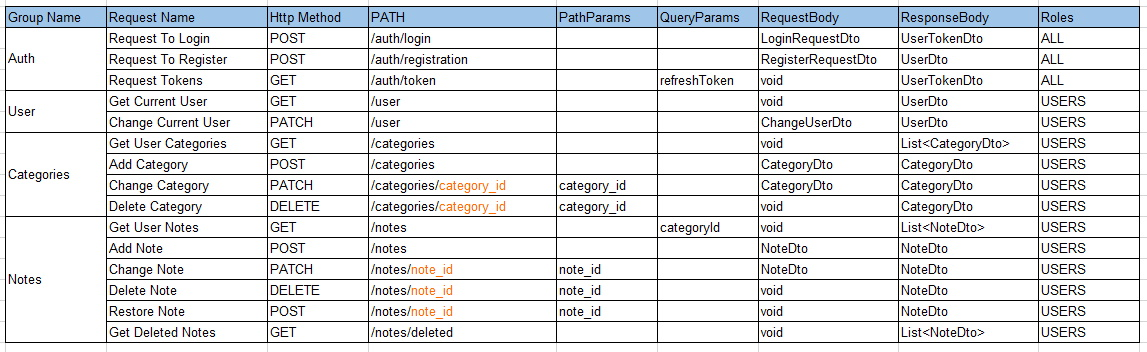
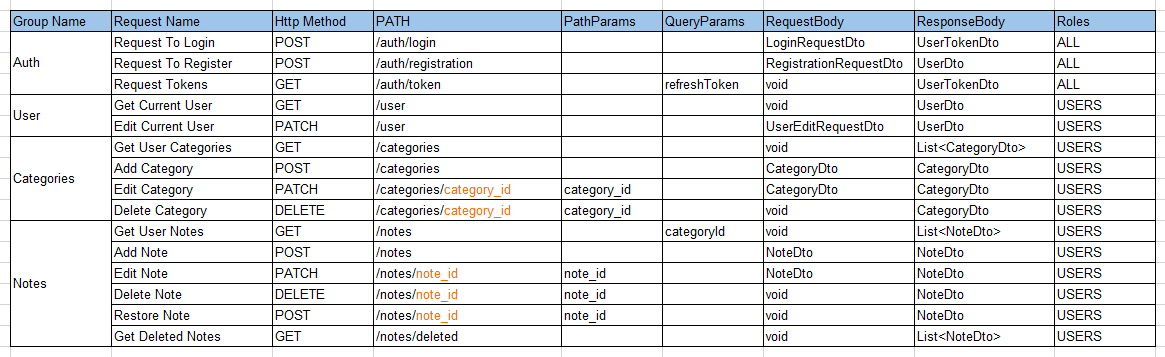
added controllers and services

diff --git a/src/main/java/com/andrbezr2016/mynotes/controllers/NoteController.java b/src/main/java/com/andrbezr2016/mynotes/controllers/NoteController.java
@@ -1,0 +1,48 @@
+package com.andrbezr2016.mynotes.controllers;
+
+import com.andrbezr2016.mynotes.dto.NoteDto;
+import com.andrbezr2016.mynotes.services.NoteService;
+import lombok.RequiredArgsConstructor;
+import org.springframework.web.bind.annotation.*;
+
+import java.util.List;
+
+import static com.andrbezr2016.mynotes.constants.ApiConstants.API_NOTES_PATH;
+
+@RequiredArgsConstructor
+@RestController
+@RequestMapping(API_NOTES_PATH)
+public class NoteController {
+
+    private final NoteService noteService;
+
+    @GetMapping
+    public List<NoteDto> getUserNotes(@RequestParam(required = false) String categoryId) {
+        return noteService.getUserNotes(categoryId);
+    }
+
+    @PostMapping
+    public NoteDto addNote(@RequestBody NoteDto noteDto) {
+        return noteService.addNote(noteDto);
+    }
+
+    @PatchMapping("/{noteId}")
+    public NoteDto editNote(@PathVariable Long noteId, @RequestBody NoteDto noteDto) {
+        return noteService.editNote(noteId, noteDto);
+    }
+
+    @DeleteMapping("/{noteId}")
+    public NoteDto deleteNote(@PathVariable Long noteId) {
+        return noteService.deleteNote(noteId);
+    }
+
+    @PostMapping("/{noteId}")
+    public NoteDto restoreNote(@PathVariable Long noteId) {
+        return noteService.restoreNote(noteId);
+    }
+
+    @GetMapping("/deleted")
+    public List<NoteDto> getDeletedUserNotes() {
+        return noteService.getDeletedUserNotes();
+    }
+}

diff --git a/src/main/java/com/andrbezr2016/mynotes/controllers/CategoryController.java b/src/main/java/com/andrbezr2016/mynotes/controllers/CategoryController.java
@@ -1,0 +1,38 @@
+package com.andrbezr2016.mynotes.controllers;
+
+import com.andrbezr2016.mynotes.dto.CategoryDto;
+import com.andrbezr2016.mynotes.services.CategoryService;
+import lombok.RequiredArgsConstructor;
+import org.springframework.web.bind.annotation.*;
+
+import java.util.List;
+
+import static com.andrbezr2016.mynotes.constants.ApiConstants.API_CATEGORIES_PATH;
+
+@RequiredArgsConstructor
+@RestController
+@RequestMapping(API_CATEGORIES_PATH)
+public class CategoryController {
+
+    private final CategoryService categoryService;
+
+    @GetMapping
+    public List<CategoryDto> getUserCategories() {
+        return categoryService.getUserCategories();
+    }
+
+    @PostMapping
+    public CategoryDto addCategory(@RequestBody CategoryDto categoryDto) {
+        return categoryService.addCategory(categoryDto);
+    }
+
+    @PatchMapping("/{categoryId}")
+    public CategoryDto editCategory(@PathVariable Long categoryId, @RequestBody CategoryDto categoryDto) {
+        return categoryService.editCategory(categoryId, categoryDto);
+    }
+
+    @DeleteMapping("/{categoryId}")
+    public CategoryDto deleteCategory(@PathVariable Long categoryId) {
+        return categoryService.deleteCategory(categoryId);
+    }
+}

diff --git a/src/main/java/com/andrbezr2016/mynotes/controllers/AuthController.java b/src/main/java/com/andrbezr2016/mynotes/controllers/AuthController.java
@@ -1,0 +1,34 @@
+package com.andrbezr2016.mynotes.controllers;
+
+import com.andrbezr2016.mynotes.dto.LoginRequestDto;
+import com.andrbezr2016.mynotes.dto.RegistrationRequestDto;
+import com.andrbezr2016.mynotes.dto.UserDto;
+import com.andrbezr2016.mynotes.dto.UserTokenDto;
+import com.andrbezr2016.mynotes.services.AuthService;
+import lombok.RequiredArgsConstructor;
+import org.springframework.web.bind.annotation.*;
+
+import static com.andrbezr2016.mynotes.constants.ApiConstants.API_AUTH_PATH;
+
+@RequiredArgsConstructor
+@RestController
+@RequestMapping(API_AUTH_PATH)
+public class AuthController {
+
+    private final AuthService authService;
+
+    @PostMapping("/login")
+    public UserTokenDto login(@RequestBody LoginRequestDto loginRequestDto) {
+        return authService.login(loginRequestDto);
+    }
+
+    @PostMapping("/registration")
+    public UserDto register(@RequestBody RegistrationRequestDto registrationRequestDto) {
+        return authService.register(registrationRequestDto);
+    }
+
+    @GetMapping("/token")
+    public UserTokenDto requestToken(@RequestParam String refreshToken) {
+        return authService.requestToken(refreshToken);
+    }
+}

diff --git a/src/main/java/com/andrbezr2016/mynotes/controllers/UserController.java b/src/main/java/com/andrbezr2016/mynotes/controllers/UserController.java
@@ -1,0 +1,27 @@
+package com.andrbezr2016.mynotes.controllers;
+
+import com.andrbezr2016.mynotes.dto.UserDto;
+import com.andrbezr2016.mynotes.dto.UserEditRequestDto;
+import com.andrbezr2016.mynotes.services.UserService;
+import lombok.RequiredArgsConstructor;
+import org.springframework.web.bind.annotation.*;
+
+import static com.andrbezr2016.mynotes.constants.ApiConstants.API_USER_PATH;
+
+@RequiredArgsConstructor
+@RestController
+@RequestMapping(API_USER_PATH)
+public class UserController {
+
+    private final UserService userService;
+
+    @GetMapping
+    public UserDto getCurrentUser() {
+        return userService.getCurrentUser();
+    }
+
+    @PatchMapping
+    public UserDto editCurrentUser(@RequestBody UserEditRequestDto userEditRequestDto) {
+        return userService.editCurrentUser(userEditRequestDto);
+    }
+}

diff --git a/src/main/java/com/andrbezr2016/mynotes/services/NoteService.java b/src/main/java/com/andrbezr2016/mynotes/services/NoteService.java
@@ -1,0 +1,35 @@
+package com.andrbezr2016.mynotes.services;
+
+import com.andrbezr2016.mynotes.dto.NoteDto;
+import org.springframework.stereotype.Service;
+
+import java.util.ArrayList;
+import java.util.List;
+
+@Service
+public class NoteService {
+
+    public List<NoteDto> getUserNotes(String categoryId) {
+        return new ArrayList<>();
+    }
+
+    public NoteDto addNote(NoteDto noteDto) {
+        return null;
+    }
+
+    public NoteDto editNote(Long noteId, NoteDto noteDto) {
+        return null;
+    }
+
+    public NoteDto deleteNote(Long noteId) {
+        return null;
+    }
+
+    public NoteDto restoreNote(Long noteId) {
+        return null;
+    }
+
+    public List<NoteDto> getDeletedUserNotes() {
+        return new ArrayList<>();
+    }
+}

diff --git a/src/main/java/com/andrbezr2016/mynotes/services/AuthService.java b/src/main/java/com/andrbezr2016/mynotes/services/AuthService.java
@@ -1,0 +1,23 @@
+package com.andrbezr2016.mynotes.services;
+
+import com.andrbezr2016.mynotes.dto.LoginRequestDto;
+import com.andrbezr2016.mynotes.dto.RegistrationRequestDto;
+import com.andrbezr2016.mynotes.dto.UserDto;
+import com.andrbezr2016.mynotes.dto.UserTokenDto;
+import org.springframework.stereotype.Service;
+
+@Service
+public class AuthService {
+
+    public UserTokenDto login(LoginRequestDto loginRequestDto) {
+        return null;
+    }
+
+    public UserDto register(RegistrationRequestDto registrationRequestDto) {
+        return null;
+    }
+
+    public UserTokenDto requestToken(String refreshToken) {
+        return null;
+    }
+}

diff --git a/src/main/java/com/andrbezr2016/mynotes/services/CategoryService.java b/src/main/java/com/andrbezr2016/mynotes/services/CategoryService.java
@@ -1,0 +1,27 @@
+package com.andrbezr2016.mynotes.services;
+
+import com.andrbezr2016.mynotes.dto.CategoryDto;
+import org.springframework.stereotype.Service;
+
+import java.util.ArrayList;
+import java.util.List;
+
+@Service
+public class CategoryService {
+
+    public List<CategoryDto> getUserCategories() {
+        return new ArrayList<>();
+    }
+
+    public CategoryDto addCategory(CategoryDto categoryDto) {
+        return null;
+    }
+
+    public CategoryDto editCategory(Long categoryId, CategoryDto categoryDto) {
+        return null;
+    }
+
+    public CategoryDto deleteCategory(Long categoryId) {
+        return null;
+    }
+}

diff --git a/src/main/java/com/andrbezr2016/mynotes/services/UserService.java b/src/main/java/com/andrbezr2016/mynotes/services/UserService.java
@@ -1,0 +1,17 @@
+package com.andrbezr2016.mynotes.services;
+
+import com.andrbezr2016.mynotes.dto.UserDto;
+import com.andrbezr2016.mynotes.dto.UserEditRequestDto;
+import org.springframework.stereotype.Service;
+
+@Service
+public class UserService {
+
+    public UserDto getCurrentUser() {
+        return null;
+    }
+
+    public UserDto editCurrentUser(UserEditRequestDto user) {
+        return null;
+    }
+}

diff --git a/src/main/java/com/andrbezr2016/mynotes/constants/ApiConstants.java b/src/main/java/com/andrbezr2016/mynotes/constants/ApiConstants.java
@@ -1,0 +1,12 @@
+package com.andrbezr2016.mynotes.constants;
+
+public final class ApiConstants {
+
+    public static final String API_AUTH_PATH = "/auth";
+    public static final String API_USER_PATH = "/user";
+    public static final String API_CATEGORIES_PATH = "/categories";
+    public static final String API_NOTES_PATH = "/notes";
+
+    private ApiConstants() {
+    }
+}

diff --git a/src/main/java/com/andrbezr2016/mynotes/dto/UserEditRequestDto.java b/src/main/java/com/andrbezr2016/mynotes/dto/UserEditRequestDto.java
@@ -3,13 +3,11 @@ package com.andrbezr2016.mynotes.dto;
 import lombok.Data;
 
 @Data
-public class RegisterRequestDto {
+public class UserEditRequestDto {
 
     private String username;
 
     private String password;
-
-    private String email;
 
     private String iconPath;
 }

diff --git a/src/main/java/com/andrbezr2016/mynotes/dto/RegistrationRequestDto.java b/src/main/java/com/andrbezr2016/mynotes/dto/RegistrationRequestDto.java
@@ -3,9 +3,11 @@ package com.andrbezr2016.mynotes.dto;
 import lombok.Data;
 
 @Data
-public class ChangeUserDto {
+public class RegistrationRequestDto {
 
     private String username;
+
+    private String email;
 
     private String password;
 

diff --git a/src/main/java/com/andrbezr2016/mynotes/dto/LoginRequestDto.java b/src/main/java/com/andrbezr2016/mynotes/dto/LoginRequestDto.java
@@ -5,7 +5,7 @@ import lombok.Data;
 @Data
 public class LoginRequestDto {
 
-    private String username;
+    private String email;
 
     private String password;
 }
